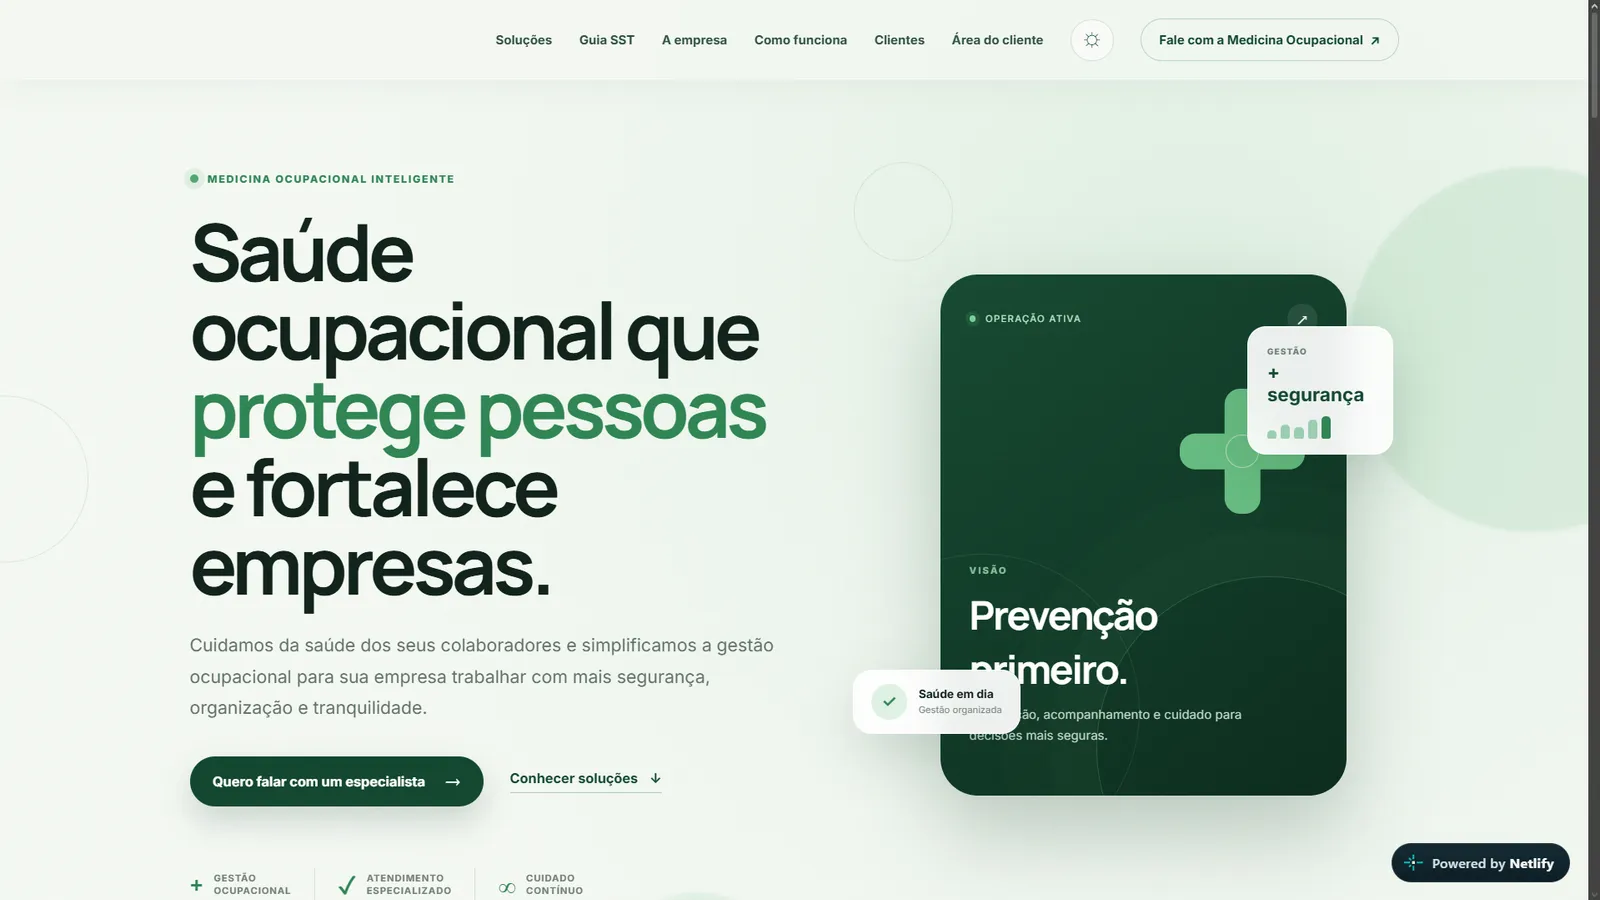
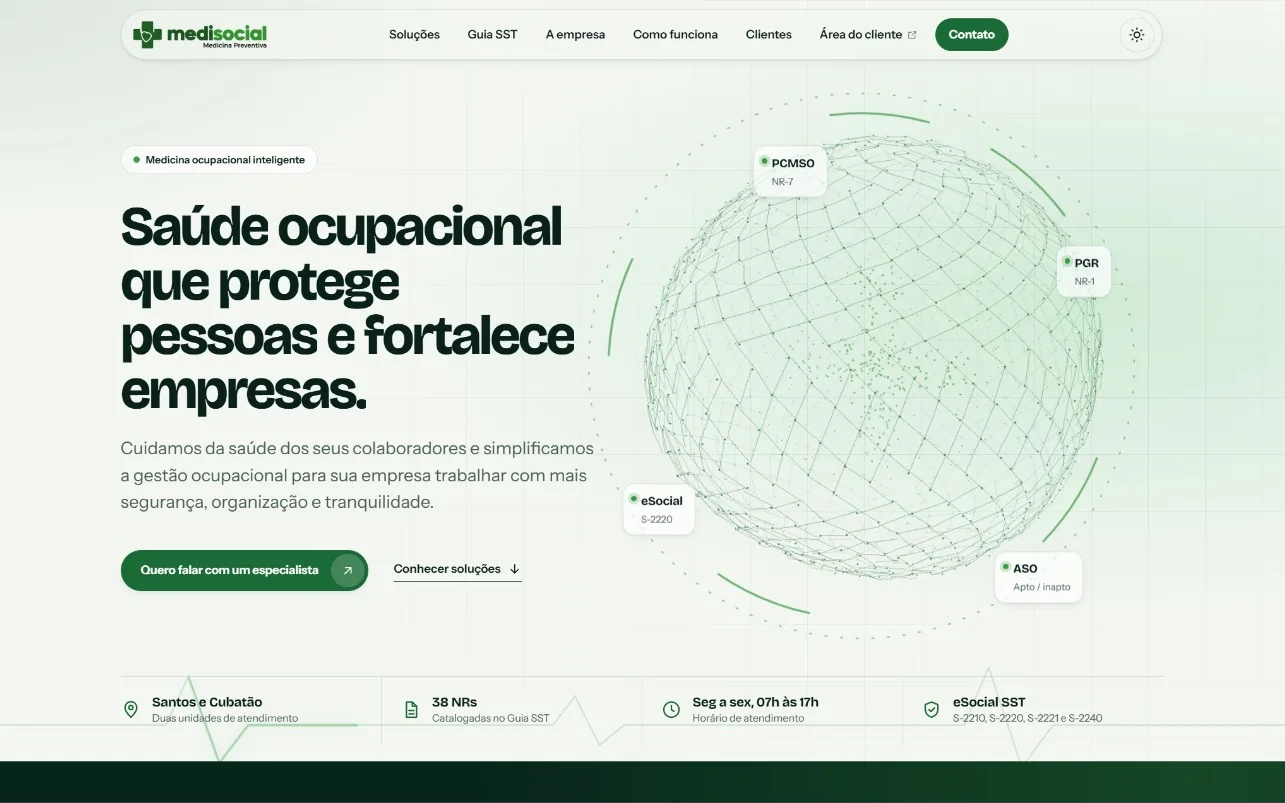
Add files via upload

diff --git a/portfolio-felipe-html/index.html b/portfolio-felipe-html/index.html
@@ -132,6 +132,12 @@
                 <span class="btn-magnet"><a class="btn btn--solid btn--md" href="#projetos">Ver projetos</a></span>
                 <span class="btn-magnet"><a class="btn btn--ghost btn--md" href="#contato">Entre em contato</a></span>
               </div>
+
+              <ul class="hero__badges hero__fade" aria-label="Tecnologias em destaque">
+                <li>TypeScript</li>
+                <li>C#</li>
+                <li>SQL</li>
+              </ul>
             </div>
 
             <div class="hero__card">
@@ -326,7 +332,7 @@
         <div class="section__inner container">
           <header class="section-head">
             <h2 id="projetos-titulo" class="section-head__title" data-split>Projetos</h2>
-            <p class="section-head__lead">Projetos pessoais e acadêmicos desenvolvidos durante meu aprendizado.</p>
+            <p class="section-head__lead">Projetos desenvolvidos durante meu aprendizado.</p>
           </header>
 
           <ul class="projects">
@@ -387,11 +393,35 @@
                 <div class="project__media">
                   <img
                     src="assets/projetos/treino-medicina.webp"
-                    alt="Página inicial do site de medicina ocupacional"
+                    alt="Página inicial do site de medicina ocupacional, com título sobre saúde ocupacional e uma esfera em malha verde"
+                    loading="lazy"
+                    decoding="async"
+                    width="1285"
+                    height="803"
+                  />
+                </div>
+              </div>
+            </li>
+
+            <li class="project" data-project="tceg">
+              <span class="project__rule" data-line></span>
+              <div class="project__grid">
+                <div class="project__head"><h3 class="project__title">T-CEG</h3></div>
+                <div class="project__body">
+                  <!-- TODO: texto baseado no título do projeto no LinkedIn e nas seções do site; ajuste se quiser. -->
+                  <p class="project__desc">
+                    Gestão estratégica e conformidade técnica. Site institucional de consultoria em segurança e saúde
+                    do trabalho, com soluções, abordagem de trabalho, dúvidas frequentes e contato.
+                  </p>
+                </div>
+                <div class="project__media">
+                  <img
+                    src="assets/projetos/tceg.webp"
+                    alt="Página inicial do site T-CEG, com o título Conformidade que protege, Gestão que transforma"
                     loading="lazy"
                     decoding="async"
                     width="1600"
-                    height="900"
+                    height="1000"
                   />
                 </div>
               </div>

diff --git a/portfolio-felipe-html/js/config.js b/portfolio-felipe-html/js/config.js
@@ -39,6 +39,11 @@ window.SITE_CONFIG = {
       repo: 'https://github.com/lipekklk/TreinoMedicinaOcupacional',
       tags: [],
     },
+    tceg: {
+      demo: 'https://www.tceg.com.br/',
+      repo: '', // sem repositório informado
+      tags: [],
+    },
     portfolio: {
       demo: 'https://curriculofelipepassos.netlify.app',
       repo: 'https://github.com/lipekklk/Portfolio',
